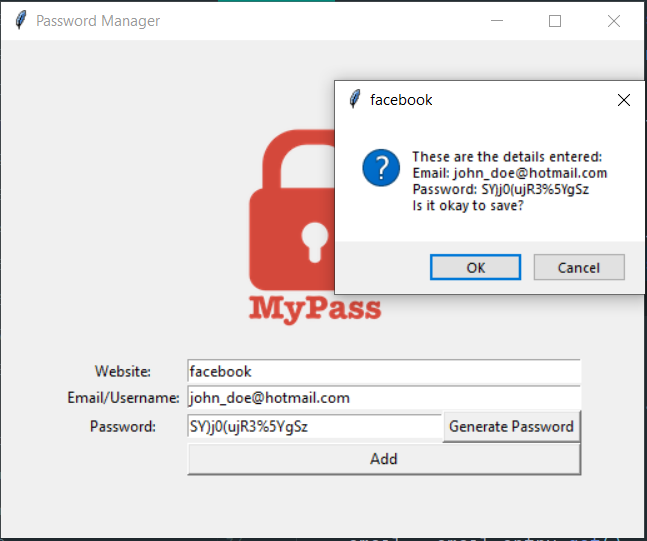
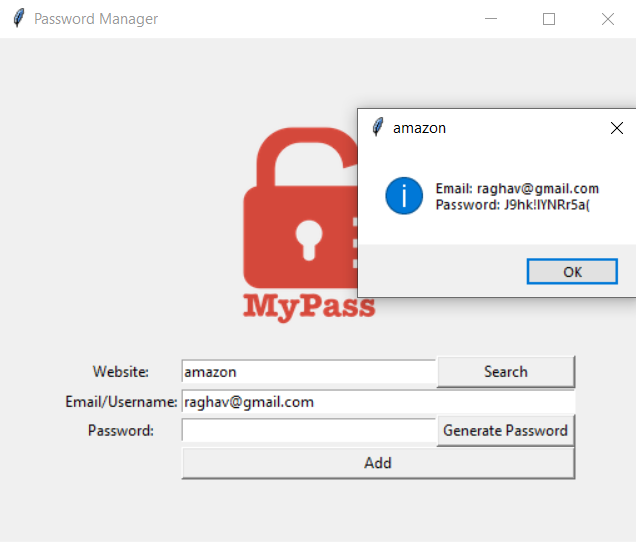
updated

diff --git a/day_29/main.py b/day_29/main.py
@@ -1,17 +1,17 @@
 from tkinter import *
 from tkinter import messagebox
-from random import randint, choice, shuffle
+from random import choice, randint, shuffle
 import pyperclip
+import json
 
 
 # ---------------------------- PASSWORD GENERATOR ------------------------------- #
 
+# Password Generator Project
 def generate_password():
     letters = ['a', 'b', 'c', 'd', 'e', 'f', 'g', 'h', 'i', 'j', 'k', 'l', 'm', 'n', 'o', 'p', 'q', 'r', 's', 't', 'u',
-               'v',
-               'w', 'x', 'y', 'z', 'A', 'B', 'C', 'D', 'E', 'F', 'G', 'H', 'I', 'J', 'K', 'L', 'M', 'N', 'O', 'P', 'Q',
-               'R',
-               'S', 'T', 'U', 'V', 'W', 'X', 'Y', 'Z']
+               'v', 'w', 'x', 'y', 'z', 'A', 'B', 'C', 'D', 'E', 'F', 'G', 'H', 'I', 'J', 'K', 'L', 'M', 'N', 'O', 'P',
+               'Q', 'R', 'S', 'T', 'U', 'V', 'W', 'X', 'Y', 'Z']
     numbers = ['0', '1', '2', '3', '4', '5', '6', '7', '8', '9']
     symbols = ['!', '#', '$', '%', '&', '(', ')', '*', '+']
 
@@ -20,67 +20,99 @@ def generate_password():
     password_numbers = [choice(numbers) for _ in range(randint(2, 4))]
 
     password_list = password_letters + password_symbols + password_numbers
-
     shuffle(password_list)
+
     password = "".join(password_list)
     password_entry.insert(0, password)
     pyperclip.copy(password)
 
 
 # ---------------------------- SAVE PASSWORD ------------------------------- #
-
 def save():
     website = website_entry.get()
     email = email_entry.get()
     password = password_entry.get()
+    new_data = {
+        website: {
+            "email": email,
+            "password": password,
+        }
+    }
 
-    if len(website) == 0 or len(password) == 0 or len(email) == 0:
-        messagebox.showinfo(title="Oops",
-                            message="Please don't leave any fields empty!")
+    if len(website) == 0 or len(password) == 0:
+        messagebox.showinfo(title="Oops", message="Please make sure you haven't left any fields empty.")
     else:
-        is_ok = messagebox.askokcancel(title=website,
-                                       message=f"These are the details entered: \nEmail: "
-                                               f"{email}\nPassword: {password}\nIs it okay to save?")
+        try:
+            with open("data.json", "r") as data_file:
+                # Reading old data
+                data = json.load(data_file)
+        except FileNotFoundError:
+            with open("data.json", "w") as data_file:
+                json.dump(new_data, data_file, indent=4)
+        else:
+            # Updating old data with new data
+            data.update(new_data)
 
-        if is_ok:
-            with open("data.txt", "a") as data_file:
-                data_file.write(f"{website} | {email} | {password}\n")
-                website_entry.delete(0, END)
-                email_entry.delete(0, END)
-                password_entry.delete(0, END)
+            with open("data.json", "w") as data_file:
+                # Saving updated data
+                json.dump(data, data_file, indent=4)
+        finally:
+            website_entry.delete(0, END)
+            password_entry.delete(0, END)
+
+
+# ---------------------------- FIND PASSWORD ------------------------------- #
+def find_password():
+    website = website_entry.get()
+    try:
+        with open("data.json") as data_file:
+            data = json.load(data_file)
+    except FileNotFoundError:
+        messagebox.showinfo(title="Error", message="No Data File Found.")
+    else:
+        if website in data:
+            email = data[website]["email"]
+            password = data[website]["password"]
+            messagebox.showinfo(title=website, message=f"Email: {email}\nPassword: {password}")
+        else:
+            messagebox.showinfo(title="Error", message=f"No details for {website} exists.")
 
 
 # ---------------------------- UI SETUP ------------------------------- #
+
 window = Tk()
 window.title("Password Manager")
 window.config(padx=50, pady=50)
 
-canvas = Canvas(width=200, height=200)
-logo_img = PhotoImage(file='logo.png')
+canvas = Canvas(height=200, width=200)
+logo_img = PhotoImage(file="logo.png")
 canvas.create_image(100, 100, image=logo_img)
-canvas.grid(column=1, row=0)
+canvas.grid(row=0, column=1)
 
 # Labels
-website_label = Label(text="Website: ")
-website_label.grid(column=0, row=1)
-email_label = Label(text="Email/Username: ")
-email_label.grid(column=0, row=2)
-password_label = Label(text="Password: ")
-password_label.grid(column=0, row=3)
+website_label = Label(text="Website:")
+website_label.grid(row=1, column=0)
+email_label = Label(text="Email/Username:")
+email_label.grid(row=2, column=0)
+password_label = Label(text="Password:")
+password_label.grid(row=3, column=0)
 
 # Entries
-website_entry = Entry(width=35)
-website_entry.grid(column=1, row=1, columnspan=2, sticky="EW")
+website_entry = Entry(width=21)
+website_entry.grid(row=1, column=1, stick="EW")
 website_entry.focus()
 email_entry = Entry(width=35)
-email_entry.grid(column=1, row=2, columnspan=2, sticky="EW")
+email_entry.grid(row=2, column=1, columnspan=2, stick="EW")
+email_entry.insert(0, "raghav@gmail.com")
 password_entry = Entry(width=21)
-password_entry.grid(column=1, row=3, sticky="EW")
+password_entry.grid(row=3, column=1, stick="EW")
 
 # Buttons
+search_button = Button(text="Search", width=13, command=find_password)
+search_button.grid(row=1, column=2, stick="EW")
 generate_password_button = Button(text="Generate Password", command=generate_password)
-generate_password_button.grid(column=2, row=3, sticky="EW")
+generate_password_button.grid(row=3, column=2, stick="EW")
 add_button = Button(text="Add", width=36, command=save)
-add_button.grid(column=1, row=4, columnspan=2, sticky="EW")
+add_button.grid(row=4, column=1, columnspan=2, stick="EW")
 
 window.mainloop()
